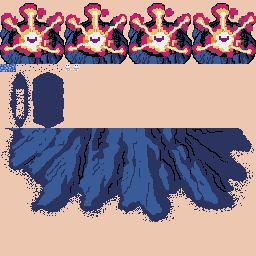
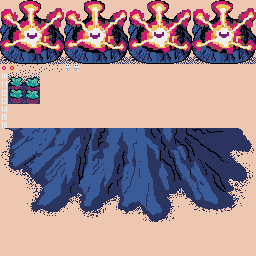
TD: Added plants to protect

Changed region(s): [[0.0, 0.0, 1.0, 0.5]]

diff --git a/td/game_load.py b/td/game_load.py
@@ -4,6 +4,41 @@ from pyke_pyxel.base_types import Coord
 from pyke_pyxel.field_game import FieldGame
 from pyke_pyxel.sprite import Animation, Sprite, CompoundSprite, TextSprite
 
+
+
+def add_plants(game: FieldGame):
+    s = CompoundSprite("plants", 40, 4)
+    s.fill_row(1, 1, 40, tile_row=10, tile_cols=[2, 3, 4, 5])
+    s.fill_row(2, 1, 40, tile_row=11, tile_cols=[2, 3, 4, 5])
+    s.fill_row(3, 1, 40, tile_row=12, tile_cols=[2, 3, 4, 5])
+    s.fill_row(4, 1, 40, tile_row=13, tile_cols=[2, 3, 4, 5])
+    s.set_position(Coord(1, 37))
+    game.add_sprite(s)
+
+def load_level(game: FieldGame):
+    game.set_tilemap(Coord(1, 1), 8, 8)
+
+    mountain = Sprite("mountain", Coord(1, 17), 32, 12)
+    mountain.set_position(Coord(4, 1))
+    game.add_sprite(mountain)
+
+    add_plants(game)
+
+    # vertical_bar(game, Coord(10, 8))
+
+    # vertical_bar(game, Coord(26, 8))
+
+    base = Sprite("base", Coord(1, 1), col_tile_count=8, row_tile_count=8)
+    base.set_position(Coord(16, 29))
+    base.add_animation("loop", Animation(Coord(1, 1), 4))
+    base.activate_animation("loop")
+    game.add_sprite(base)
+
+    score_text = TextSprite("*", 
+                            GLOBAL_SETTINGS.colours.hud_text,
+                            f"{Path(__file__).parent.resolve()}/assets/t0-14b-uni.bdf")
+    game.hud.set_text(score_text)
+
 def vertical_bar(game: FieldGame, position: Coord):
     bar = CompoundSprite("bar", 3, 20)
     bar.set_position(position)
@@ -30,25 +65,3 @@ def vertical_bar(game: FieldGame, position: Coord):
     bar.set_tile(3, 20, Coord(4, 16))
 
     game.add_sprite(bar)
-
-def load_level(game: FieldGame):
-    game.set_tilemap(Coord(1, 1), 8, 8)
-
-    mountain = Sprite("mountain", Coord(1, 17), 32, 12)
-    mountain.set_position(Coord(4, 1))
-    game.add_sprite(mountain)
-
-    # vertical_bar(game, Coord(10, 8))
-
-    # vertical_bar(game, Coord(26, 8))
-
-    base = Sprite("base", Coord(1, 1), col_tile_count=8, row_tile_count=8)
-    base.set_position(Coord(16, 33))
-    base.add_animation("loop", Animation(Coord(1, 1), 4))
-    base.activate_animation("loop")
-    game.add_sprite(base)
-
-    score_text = TextSprite("*", 
-                            GLOBAL_SETTINGS.colours.hud_text,
-                            f"{Path(__file__).parent.resolve()}/assets/t0-14b-uni.bdf")
-    game.hud.set_text(score_text)

diff --git a/td/weapons/weapon.py b/td/weapons/weapon.py
@@ -1,9 +1,12 @@
+import random
+
+from pyke_pyxel import log_error
 from pyke_pyxel.base_types import Coord
 from pyke_pyxel.cell_field import Cell, CellField
 
 
 class Weapon:
-    def __init__(self, type: str, position: Coord, power: int, update_delay: int) -> None:
+    def __init__(self, type: str, position: Coord, power: int, speed: int) -> None:
         self.position = position
         self.type = type
 
@@ -11,16 +14,18 @@ class Weapon:
 
         self.power = power
 
-        self.should_skip_update_count = update_delay # this number reduces as speed increases
-        self.skip_update_count = self.should_skip_update_count # to ensure that the first update draws
+        if speed > 10:
+            log_error(f"Weapon({type}) speed > 10")
+            speed = 10
+
+        self.skip_frequency = (10 - speed) / 10
 
     def should_skip_update(self) -> bool:
-        if self.skip_update_count < self.should_skip_update_count:
-            self.skip_update_count += 1
-            return True
-        else:
-            self.skip_update_count = 0
-            return False
+        #
+        # TODO: there may be something weird here
+        # testing it with fungus @ speed=2, skip_frequency=0.8 yields a skip rate of 67%?
+        #
+        return random.random() < self.skip_frequency
 
     def launch(self, field: CellField):
         print("Weapon.launch() implement in your class")

diff --git a/pyke_pyxel/sprite.py b/pyke_pyxel/sprite.py
@@ -167,10 +167,10 @@ class CompoundSprite:
             for r in range(0, len(row)):
                 row[r] = tile
 
-    def fill_row(self, col: int, tile: Coord):
-        rows = self.cols[(col-1)]
-        for r in range(0, len(rows)):
-                rows[r] = tile
+    # def fill_row(self, col: int, tile: Coord):
+    #    rows = self.cols[(col-1)]
+    #    for r in range(0, len(rows)):
+    #            rows[r] = tile
 
     def fill_col(self, col: int, from_row: int, to_row: int, tile_col: int, tile_rows: list[int]):
         rows = self.cols[(col-1)]
@@ -179,6 +179,14 @@ class CompoundSprite:
             rows[r] = Coord(tile_col, tile_rows[tile_index])
             tile_index += 1
             tile_index = tile_index % len(tile_rows)
+
+    def fill_row(self, row: int, from_col: int, to_col: int, tile_row: int, tile_cols: list[int]):
+        tile_index = 0
+        for col_i in range((from_col-1), to_col):
+            col = self.cols[col_i]
+            col[(row-1)] = Coord(tile_cols[tile_index], tile_row)
+            tile_index += 1
+            tile_index = tile_index % len(tile_cols)
 
     def set_tile(self, col: int, row: int, tile: Coord):
         self.cols[(col-1)][(row-1)] = tile

diff --git a/td/enemies/__init__.py b/td/enemies/__init__.py
@@ -9,7 +9,7 @@ from .skeleton import Skeleton
 
 enemies: list[Enemy] = []
 
-positions = [
+launch_locations = [
     # left
     Coord(1, 4),
     Coord(3, 2),
@@ -57,7 +57,7 @@ positions = [
 ]
 
 def _random_location() -> Coord:
-    pos = positions[random.randint(0, (len(positions)-1))]
+    pos = launch_locations[random.randint(0, (len(launch_locations)-1))]
     return pos.clone()
 
 def launch_skeleton(game: FieldGame):
@@ -70,8 +70,6 @@ def update(game: FieldGame):
     for e in enemies:
         cells = field.cells_at(e._sprite.position, include_empty=False)
 
-
-
         match e.update(cells):
             case 0: # continue
                 pass
@@ -81,10 +79,10 @@ def update(game: FieldGame):
                 enemies.remove(e)
                 Signals.send("enemy_killed", game)
             case 1: # wins
-                print("Enemy.update() REMOVE WINNING ENEMY")
+                print(f"ENEMY WINS {e.power}")
                 game.remove_sprite(e._sprite)
                 enemies.remove(e)
                 Signals.send("enemy_wins", game)
 
-    if len(enemies) <= 15:
+    if len(enemies) <= 8:
         launch_skeleton(game)

diff --git a/td/weapons/fungus.py b/td/weapons/fungus.py
@@ -8,13 +8,14 @@ from .weapon import Weapon
 class Fungus(Weapon):
 
     def __init__(self, position: Coord) -> None:
-        super().__init__("fungus", position, power=5, update_delay=1)
+        super().__init__("fungus", position, power=5, speed=3)
 
         self.colour = COLOURS.GREEN_MINT
 
         self.regrow: list[Cell] = []
 
         self.update_count = 0
+        # self.skip_count = 0
 
     def launch(self, field: CellField):
         for i in range(5):
@@ -22,8 +23,11 @@ class Fungus(Weapon):
             self.cells.append(self._prop(cell))
 
     def update(self, field: CellField) -> bool:
+        self.update_count +=1
         if self.should_skip_update():
+            # self.skip_count += 1
             return len(self.cells) > 0
+        # print(f"SKIP FREQUENCY u:{self.update_count} s:{self.skip_count} => {(self.skip_count / self.update_count)} of {self.skip_frequency}")
 
         new_cells = []
 

diff --git a/td/weapons/bolt.py b/td/weapons/bolt.py
@@ -11,7 +11,7 @@ import random
 class Bolt(Weapon):
 
     def __init__(self, position: Coord, direction_preference: str) -> None:
-        super().__init__("bolt", position, power=random.randint(30, 200), update_delay=0)
+        super().__init__("bolt", position, power=random.randint(30, 200), speed=10)
 
         self.colour: int = COLOURS.WHITE
         self.direction_preference = direction_preference
@@ -26,6 +26,7 @@ class Bolt(Weapon):
             self.cells.append(cell)
 
     def update(self, field: CellField) -> bool:
+        # Speed always =10, no need to call super().should_update()
         if len(self.cells) == 0:
             return False
         

diff --git a/td/weapons/__init__.py b/td/weapons/__init__.py
@@ -8,9 +8,9 @@ from .wave import Wave
 from .weapon import Weapon
 from .bolt import Bolt
 
-position_left = Coord(16, 35)
-position_center = Coord(19, 34)
-position_right = Coord(23, 35)
+position_left = Coord(16, 31)
+position_center = Coord(19, 30)
+position_right = Coord(23, 31)
 
 weapons: list[Weapon] = []
 

diff --git a/td/weapons/wave.py b/td/weapons/wave.py
@@ -6,7 +6,7 @@ from td.weapons.weapon import Weapon
 
 class Wave(Weapon):
     def __init__(self, position: Coord) -> None:
-        super().__init__("wave", position, power=5, update_delay=2)
+        super().__init__("wave", position, power=5, speed=1)
 
         self.radius = 0
 
